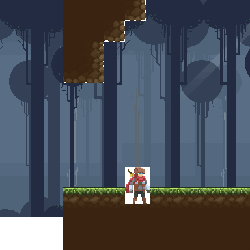
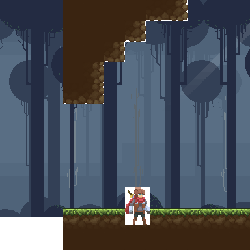
health potion

Changed region(s): [[0.252, 0.644, 1.0, 0.924], [0.364, 0.0, 0.756, 0.252], [0.252, 0.308, 0.42, 0.42]]

diff --git a/src/main/ProceduralGeneration.java b/src/main/ProceduralGeneration.java
@@ -10,25 +10,24 @@ import java.util.Random;
 public class ProceduralGeneration {
 
     private static final int WIDTH = 50;
-    private static final int HEIGHT = 50;
+    private static final int HEIGHT = 50; // Adjusted height for platformer game
     private static final char WALL = '.';
     private static final char GROUND = 'G';
-    private static final char PLAYER = 'P';
-    private static final char DECO = 'D';
-    private static final char ROPE = 'R';
+    private static final char LADDER = 'L';
+    private static final char PLATFORM = 'P';
 
     private char[][] map;
     private Random random;
-    private List<Platform> platforms = new ArrayList<>();
+    private List<Polygon> polygons = new ArrayList<>();
 
     public ProceduralGeneration() {
         map = new char[WIDTH][HEIGHT];
         random = new Random();
         initializeMap();
-        generatePlatforms();
-        addDecos();
-        placePlayerSpawn();
-        placeRopes();
+        generatePolygons();
+        convertPolygonsToMap();
+        createLadders();
+        createHitboxes();
     }
 
     private void initializeMap() {
@@ -39,101 +38,91 @@ public class ProceduralGeneration {
         }
     }
 
-    private void addDecos() {
-        for (int x = 0; x < WIDTH; x++) {
+    private void generatePolygons() {
+        int polygonCount = 20; // Total number of polygons
+        int minVertices = 3; // Minimum vertices for a polygon (triangle)
+        int maxVertices = 5; // Maximum vertices for a polygon (pentagon)
+        int maxPolygonSize = 8; // Maximum size of the polygon (in terms of width or height)
+
+        for (int i = 0; i < polygonCount; i++) {
+            int verticesCount = random.nextInt(maxVertices - minVertices + 1) + minVertices;
+            List<Vertex> vertices = new ArrayList<>();
+
+            // Generate vertices within the map boundaries
+            for (int j = 0; j < verticesCount; j++) {
+                int x = random.nextInt(WIDTH);
+                int y = random.nextInt(HEIGHT);
+                vertices.add(new Vertex(x, y));
+            }
+
+            // Adjust polygon size based on vertex positions
+            int minX = vertices.stream().mapToInt(Vertex::getX).min().orElse(0);
+            int maxX = vertices.stream().mapToInt(Vertex::getX).max().orElse(0);
+            int minY = vertices.stream().mapToInt(Vertex::getY).min().orElse(0);
+            int maxY = vertices.stream().mapToInt(Vertex::getY).max().orElse(0);
+
+            int polygonWidth = maxX - minX;
+            int polygonHeight = maxY - minY;
+
+            // Scale down large polygons
+            if (polygonWidth > maxPolygonSize || polygonHeight > maxPolygonSize) {
+                double scaleRatio = 1.0;
+                if (polygonWidth > maxPolygonSize) {
+                    scaleRatio = (double) maxPolygonSize / polygonWidth;
+                }
+                if (polygonHeight > maxPolygonSize) {
+                    scaleRatio = Math.min(scaleRatio, (double) maxPolygonSize / polygonHeight);
+                }
+
+                // Apply scaling to vertices
+                for (Vertex vertex : vertices) {
+                    int scaledX = (int) (vertex.getX() * scaleRatio);
+                    int scaledY = (int) (vertex.getY() * scaleRatio);
+                    vertex.setX(scaledX);
+                    vertex.setY(scaledY);
+                }
+            }
+
+            polygons.add(new Polygon(vertices));
+        }
+    }
+
+    private void convertPolygonsToMap() {
+        for (Polygon polygon : polygons) {
             for (int y = 0; y < HEIGHT; y++) {
-                int chance = random.nextInt(100);
-                if (map[x][y] == GROUND && chance < 15) {
-                    map[x][y - 1] = DECO;
+                for (int x = 0; x < WIDTH; x++) {
+                    if (polygon.contains(new Vertex(x, y))) {
+                        map[x][y] = PLATFORM;
+                    }
                 }
             }
         }
     }
 
-    public double distance(double x1, double y1, double x2, double y2) {
-        // Calculate and return the distance
-        return Math.sqrt(Math.pow(x2 - x1, 2) + Math.pow(y2 - y1, 2));
+    private void createLadders() {
+        // Create ladders between platforms if needed
+        // Implement logic as per your game's requirements
     }
 
-    private void generatePlatforms() {
-        int platformCount = 10;
-        int platformMinLength = 5;
-        int platformMaxLength = 15;
-
-        for (int i = 0; i < platformCount; i++) {
-            int platformLength = random.nextInt(platformMaxLength - platformMinLength) + platformMinLength;
-            int platformX = random.nextInt(WIDTH - platformLength);
-            int platformY = random.nextInt(HEIGHT - 10) + 5;
-
-            for (int x = platformX; x < platformX + platformLength; x++) {
-                map[x][platformY] = GROUND;
-            }
-
-            platforms.add(new Platform(platformX, platformY, platformX + platformLength, platformY + 1));
-        }
-    }
-
-    private void placePlayerSpawn() {
-        for (int y = HEIGHT - 1; y > 0; y--) {
-            for (int x = 0; x < WIDTH; x++) {
-                if (map[x][y] == GROUND && map[x][y + 1] == WALL) {
-                    map[x][y - 1] = PLAYER;
-                    return;
-                }
-            }
-        }
-        System.out.println("Player spawn point could not be placed.");
-    }
-
-    private void placeRopes() {
-        for (Platform p : platforms) {
-            Platform nearest = nearestPlatform(p);
-            double dist = distance(nearest.minX, nearest.minY, p.minX, p.minY);
-            System.out.println("Distance to nearest platform: " + dist);
-
-            if (dist > 4) {
-                map[nearest.minX][nearest.minY + 1] = ROPE;
-            }
-        }
-    }
-
-    private Platform nearestPlatform(Platform platform) {
-        Platform temp = null;
-
-        for (Platform p : platforms) {
-            if (p == platform) {
-                continue;
-            }
-
-            if (temp == null) {
-                temp = p;
-                continue;
-            }
-
-            double dist = distance(p.minX, p.minY, platform.minX, platform.minY);
-            double currentDist = distance(temp.minX, temp.minY, platform.minX, platform.minY);
-
-            if (dist < currentDist) {
-                temp = p;
-            }
-        }
-        return temp;
+    private void createHitboxes() {
+        // Create hitboxes around polygons for collision detection or other purposes
+        // Implement logic as per your game's requirements
     }
 
     public void saveMapToFile(String filename) {
         try (BufferedWriter writer = new BufferedWriter(new FileWriter(filename))) {
             // Static lines
-            writer.write("name: FOREST1\n");
-            writer.write("background: resources/images/backgrounds/forest_background.png\n");
-            writer.write("midground: resources/images/backgrounds/forest_midground.png\n");
-            writer.write("foreground: resources/images/backgrounds/forest_foreground.png\n");
-            writer.write("background_music: resources/sounds/jungle_synthetic.wav\n");
-            writer.write("overlay: resources/images/night_filter.png\n");
-            writer.write("next_level: forest_2\n");
+            writer.write("name: LEVEL1\n");
+            writer.write("background: resources/images/backgrounds/level1_background.png\n");
+            writer.write("midground: resources/images/backgrounds/level1_midground.png\n");
+            writer.write("foreground: resources/images/backgrounds/level1_foreground.png\n");
+            writer.write("background_music: resources/sounds/level1_music.wav\n");
+            writer.write("overlay: resources/images/overlay.png\n");
+            writer.write("next_level: level2\n");
             writer.write("level_data:\n");
 
-            // Map data
-            for (int y = 0; y < HEIGHT; y++) {
+            // Map data (bottom to top)
+            for (int y = HEIGHT - 1; y >= 0; y--) {
                 for (int x = 0; x < WIDTH; x++) {
                     writer.write(map[x][y]);
                 }
@@ -142,34 +131,68 @@ public class ProceduralGeneration {
 
             // Keymap
             writer.write("keymap:\n");
-            writer.write("G: FOREST_GROUND\n");
-            writer.write("P: PLAYER_SPAWN\n");
+            writer.write("G: PLATFORM\n");
+            writer.write("L: LADDER\n");
             writer.write(".: WALL\n");
-            writer.write("D: TALL_GRASS\n");
-            writer.write("R: ROPE");
+            writer.write("P: PLATFORM\n");
+
+            System.out.println("Map saved to " + filename); // Print success message
 
         } catch (IOException e) {
-            e.printStackTrace();
+            e.printStackTrace(); // Print stack trace for any IOException
         }
     }
 
     public static void main(String[] args) {
         ProceduralGeneration pg = new ProceduralGeneration();
-        pg.saveMapToFile("saves/levels/level_forest_0.txt");
-        System.out.println("Map saved to generated_map.txt");
+        pg.saveMapToFile("saves/levels/level1.txt");
     }
-}
 
-class Platform {
-    int minX;
-    int minY;
-    int maxX;
-    int maxY;
+    static class Polygon {
+        private List<Vertex> vertices;
 
-    public Platform(int platformX, int platformY, int i, int i1) {
-        this.minX = platformX;
-        this.maxX = i;
-        this.minY = platformY;
-        this.maxY = i1;
+        public Polygon(List<Vertex> vertices) {
+            this.vertices = vertices;
+        }
+
+        public boolean contains(Vertex point) {
+            // Implement polygon containment logic (e.g., ray-casting algorithm)
+            // Return true if the point is inside the polygon
+            int i, j;
+            boolean c = false;
+            for (i = 0, j = vertices.size() - 1; i < vertices.size(); j = i++) {
+                if (((vertices.get(i).getY() > point.getY()) != (vertices.get(j).getY() > point.getY())) &&
+                        (point.getX() < (vertices.get(j).getX() - vertices.get(i).getX()) * (point.getY() - vertices.get(i).getY()) / (vertices.get(j).getY() - vertices.get(i).getY()) + vertices.get(i).getX())) {
+                    c = !c;
+                }
+            }
+            return c;
+        }
+    }
+
+    static class Vertex {
+        private int x;
+        private int y;
+
+        public Vertex(int x, int y) {
+            this.x = x;
+            this.y = y;
+        }
+
+        public int getX() {
+            return x;
+        }
+
+        public void setX(int x) {
+            this.x = x;
+        }
+
+        public int getY() {
+            return y;
+        }
+
+        public void setY(int y) {
+            this.y = y;
+        }
     }
 }

diff --git a/src/level/item/ItemType.java b/src/level/item/ItemType.java
@@ -7,7 +7,8 @@ public enum ItemType {
     SWORD("resources/images/items/sword.png", ItemTypeCategory.SWORD, 5),
     TEST_SWORD("resources/images/items/test_sword.png", ItemTypeCategory.SWORD, 20),
     TEST_BOW("resources/images/items/test_bow.png", ItemTypeCategory.BOW, 10),
-    BOW("resources/images/items/bow.png", ItemTypeCategory.BOW, 5);
+    BOW("resources/images/items/bow.png", ItemTypeCategory.BOW, 5),
+    POTION("resources/images/items/potion_0.png",ItemTypeCategory.RESOURCE);
 
     private final String filePath;
     private final ItemTypeCategory typeCategoery;

diff --git a/src/entity/EntityType.java b/src/entity/EntityType.java
@@ -13,9 +13,7 @@ public enum EntityType {
     GOLD_COIN("resources/images/objects/coins/gold_coin_", 6, 8),
     PLANT_MONSTER("resources/images/characters/plant/plant_monster.png"),
     STONE_DOOR("resources/images/blocks/stoneDoor.png"),
-    HEART("resources/images/characters/heart_", 6, 6),
-    MUSHROOM_SPAWN("resources/images/characters/mushroom/mushroom_spawn.png"),
-    MUSHROOM_MONSTER("resources/images/characters/mushroom/mushroom_boss_idle_", 4, 3);
+    HEART("resources/images/characters/heart_", 6, 6);
 
 
     private final String filePath;

diff --git a/src/entity/ItemHealthPotion.java b/src/entity/ItemHealthPotion.java
@@ -1,0 +1,27 @@
+package entity;
+
+import level.Level;
+import level.item.ItemType;
+import main.SoundType;
+import utils.Location;
+
+
+
+
+public class ItemHealthPotion extends EntityItem {
+
+    public ItemHealthPotion(Level level, Location loc) {
+        super(EntityType.HEALTH_POTION, level, loc);
+
+        setPickupSound(SoundType.BACKPACK_CLOSE);
+        setScale(1.25);
+    }
+
+    @Override
+    public void onPickup() {
+        super.onPickup();
+
+        getLevel().getPlayer().getBackPack().addItem(ItemType.POTION, 1);
+    }
+}
+

diff --git a/src/level/Level.java b/src/level/Level.java
@@ -215,6 +215,8 @@ public class Level {
                     } else if (type == EntityType.KEY) {
                         keyLoc = new Location(spawnLoc.getX(), spawnLoc.getY());
                         entity = new ItemKey(this, spawnLoc);
+                    }  else if (type == EntityType.HEALTH_POTION) {
+                        entity = new ItemHealthPotion(this, spawnLoc);
                     }
 
                     if (entity != null) {
